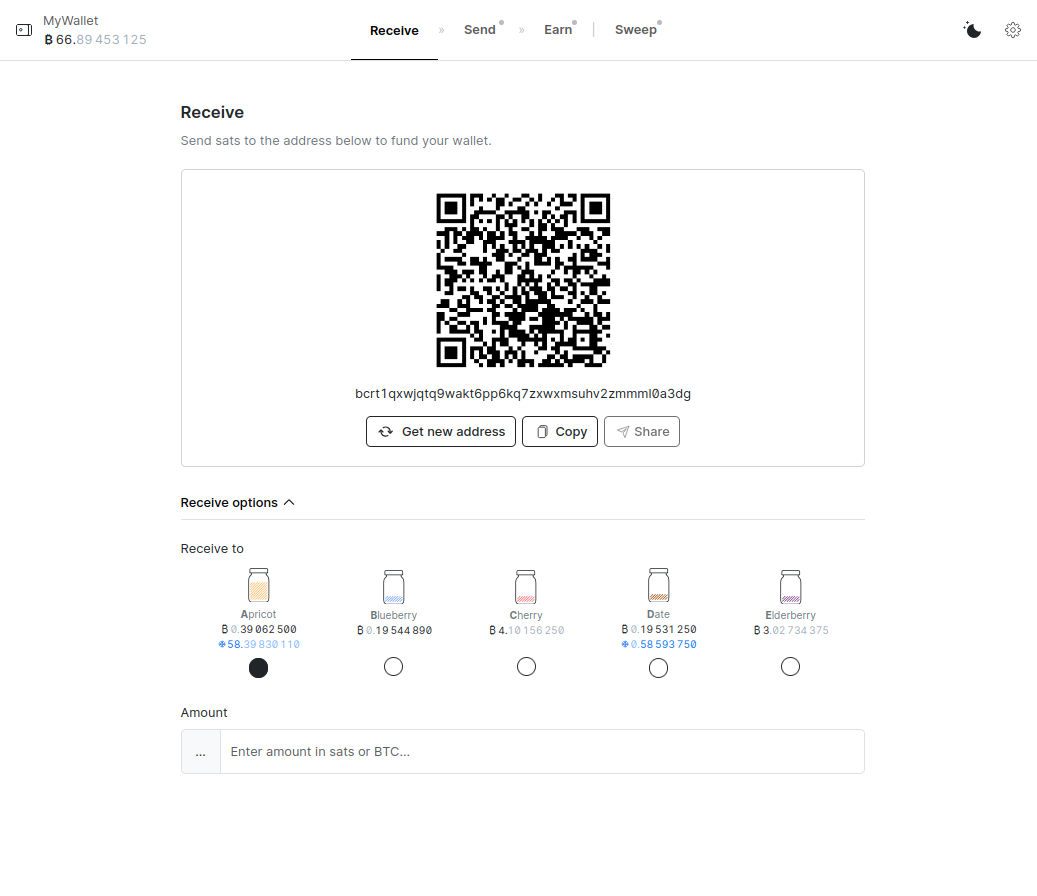
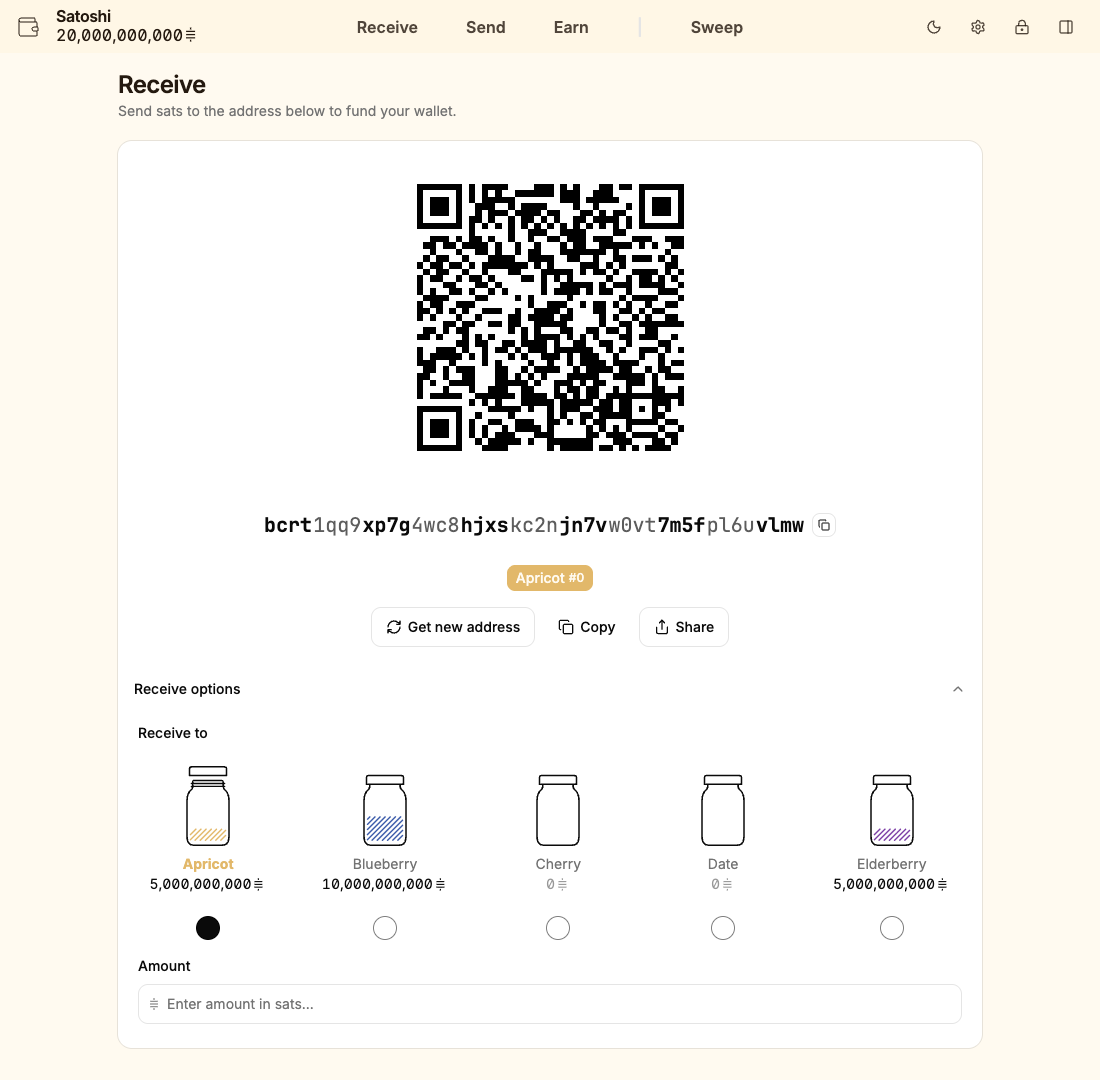
docs(receive): update screenshots and description for v2

diff --git a/docs/interface/01-receive.md b/docs/interface/01-receive.md
@@ -6,18 +6,22 @@ Use the 'Receive' tab to receive funds.
 
 ![](../assets/interface/receive-light.png#only-light)
 
-A new [invoice address][address] will be generated every time. You can scan the
-QR code with a mobile wallet or copy/paste the invoice address to receive funds
-from someone else, or send funds from another wallet yourself.
+The address stays hidden until you click 'Reveal address'. Click 'Get new
+address' to generate another one. You can scan the QR code with a mobile
+wallet or copy/paste the [address][address] to receive funds from someone
+else, or send funds from another wallet yourself.
 
 !!! info
     Jam uses [jars][jars] under the hood to separate funds into disconnected
     containers. Think of jars as different pockets in your wallet, or different
     identities. The default jar to receive funds is **Jar A**.
 
-You can receive to a specific jar by clicking on it.
+To receive to a specific jar, open 'Receive options' and select it under
+'Receive to'. The badge below the address shows which jar it belongs to.
 
-If you enter an amount to receive, it will make a BIP21 payment URI, encoded in the QR-code.
+If you enter an amount (in sats), the QR code becomes a BIP21 payment request.
+'Copy' and 'Share' then hand out the full payment request instead of just the
+address.
 
 Once you have funded your wallet, you can use the 'Send' tab to do
 a collaborative transaction.
